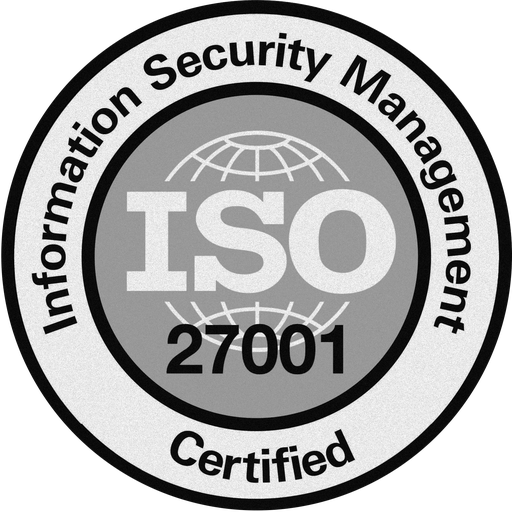
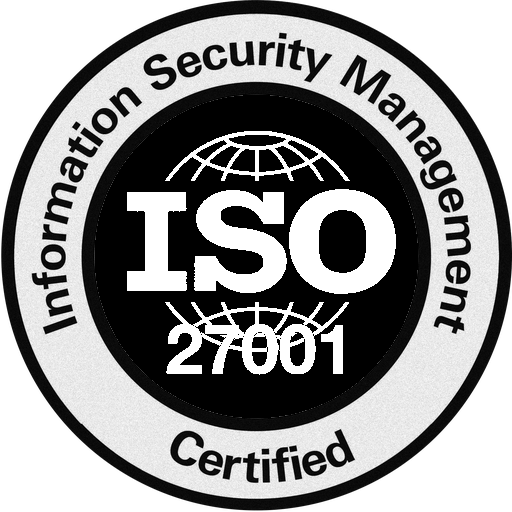
Darken the ISO seal and set footer links in mono.
The ISO center now matches the other certification badges, the HIPAA line fits on two rows, and footer links use the mono face on a warmer dark ground.

Changed region(s): [[0.1875, 0.1875, 0.8438, 0.8438]]

diff --git a/src/app/SiteFooter.tsx b/src/app/SiteFooter.tsx
@@ -35,11 +35,13 @@ export default function SiteFooter({ tone = "light" }: { tone?: "light" | "dark"
   const strong = dark ? "text-white" : "text-[#5D524B]";
   const rule = dark ? "border-white/15" : "border-black/10";
   const hover = dark ? "hover:text-white" : "hover:text-[#5D524B]";
+  const mono =
+    "font-[family-name:var(--font-mono)] font-medium tracking-[-0.02em] uppercase";
 
   return (
     <footer
       className={`site-footer not-typeset px-0 pt-12 pb-20 text-[13px] md:pt-16 md:pb-24 ${
-        dark ? "bg-black text-white/55" : "bg-background text-[#5D524B]/60"
+        dark ? "bg-[#2A2421] text-white/55" : "bg-background text-[#5D524B]/60"
       }`}
       data-not-typeset
     >
@@ -55,7 +57,7 @@ export default function SiteFooter({ tone = "light" }: { tone?: "light" | "dark"
               href={href}
               target="_blank"
               text={name}
-              className={`rounded-none border px-3 py-1.5 text-[12px] ${
+              className={`rounded-none border px-3 py-1.5 text-[12px] ${mono} ${
                 dark
                   ? "border-white/20 text-white/70 hover:bg-white/10 hover:text-white"
                   : "border-black/15 text-[#5D524B]/70 hover:bg-black/5 hover:text-[#5D524B]"
@@ -70,7 +72,7 @@ export default function SiteFooter({ tone = "light" }: { tone?: "light" | "dark"
             <ul className="space-y-2.5">
               {SOLUTIONS.map(({ id, label, href }) => (
                 <li key={id}>
-                  <TextReveal as={Link} href={href} text={label} className={`${muted} ${hover}`} />
+                  <TextReveal as={Link} href={href} text={label} className={`${mono} ${muted} ${hover}`} />
                 </li>
               ))}
             </ul>
@@ -84,7 +86,7 @@ export default function SiteFooter({ tone = "light" }: { tone?: "light" | "dark"
                     as={Link}
                     href={`/products/${product.slug}`}
                     text={product.name}
-                    className={`${muted} ${hover}`}
+                    className={`${mono} ${muted} ${hover}`}
                   />
                 </li>
               ))}
@@ -95,7 +97,7 @@ export default function SiteFooter({ tone = "light" }: { tone?: "light" | "dark"
             <ul className="space-y-2.5">
               {COMPANY_LINKS.map(({ label, href }) => (
                 <li key={label}>
-                  <TextReveal as={Link} href={href} text={label} className={`${muted} ${hover}`} />
+                  <TextReveal as={Link} href={href} text={label} className={`${mono} ${muted} ${hover}`} />
                 </li>
               ))}
             </ul>
@@ -105,7 +107,7 @@ export default function SiteFooter({ tone = "light" }: { tone?: "light" | "dark"
             <ul className="space-y-2.5">
               {LEGAL_LINKS.map(({ label, href }) => (
                 <li key={label}>
-                  <TextReveal as={Link} href={href} text={label} className={`${muted} ${hover}`} />
+                  <TextReveal as={Link} href={href} text={label} className={`${mono} ${muted} ${hover}`} />
                 </li>
               ))}
             </ul>
@@ -119,7 +121,7 @@ export default function SiteFooter({ tone = "light" }: { tone?: "light" | "dark"
                   href="https://www.linkedin.com/company/osfin-ai"
                   target="_blank"
                   text="LinkedIn"
-                  className={`${muted} ${hover}`}
+                  className={`${mono} ${muted} ${hover}`}
                 />
               </li>
             </ul>

diff --git a/src/content/security.ts b/src/content/security.ts
@@ -43,7 +43,7 @@ export const SECURITY = {
       {
         title: "ISO 27001:2022",
         body: "Certified by BSI to ISO/IEC 27001, with an information security management system that protects client data.",
-        logo: "/security/badges/ISO.png",
+        logo: "/security/badges/ISO.png?v=2",
         alt: "ISO 27001",
       },
       {
@@ -54,7 +54,7 @@ export const SECURITY = {
       },
       {
         title: "HIPAA",
-        body: "We safeguard protected health information with access controls, audit trails, and BAAs for healthcare operations.",
+        body: "We safeguard protected health information with access controls, audit trails, and BAAs.",
         logo: "/security/badges/HIPAA.png",
         alt: "HIPAA",
       },
